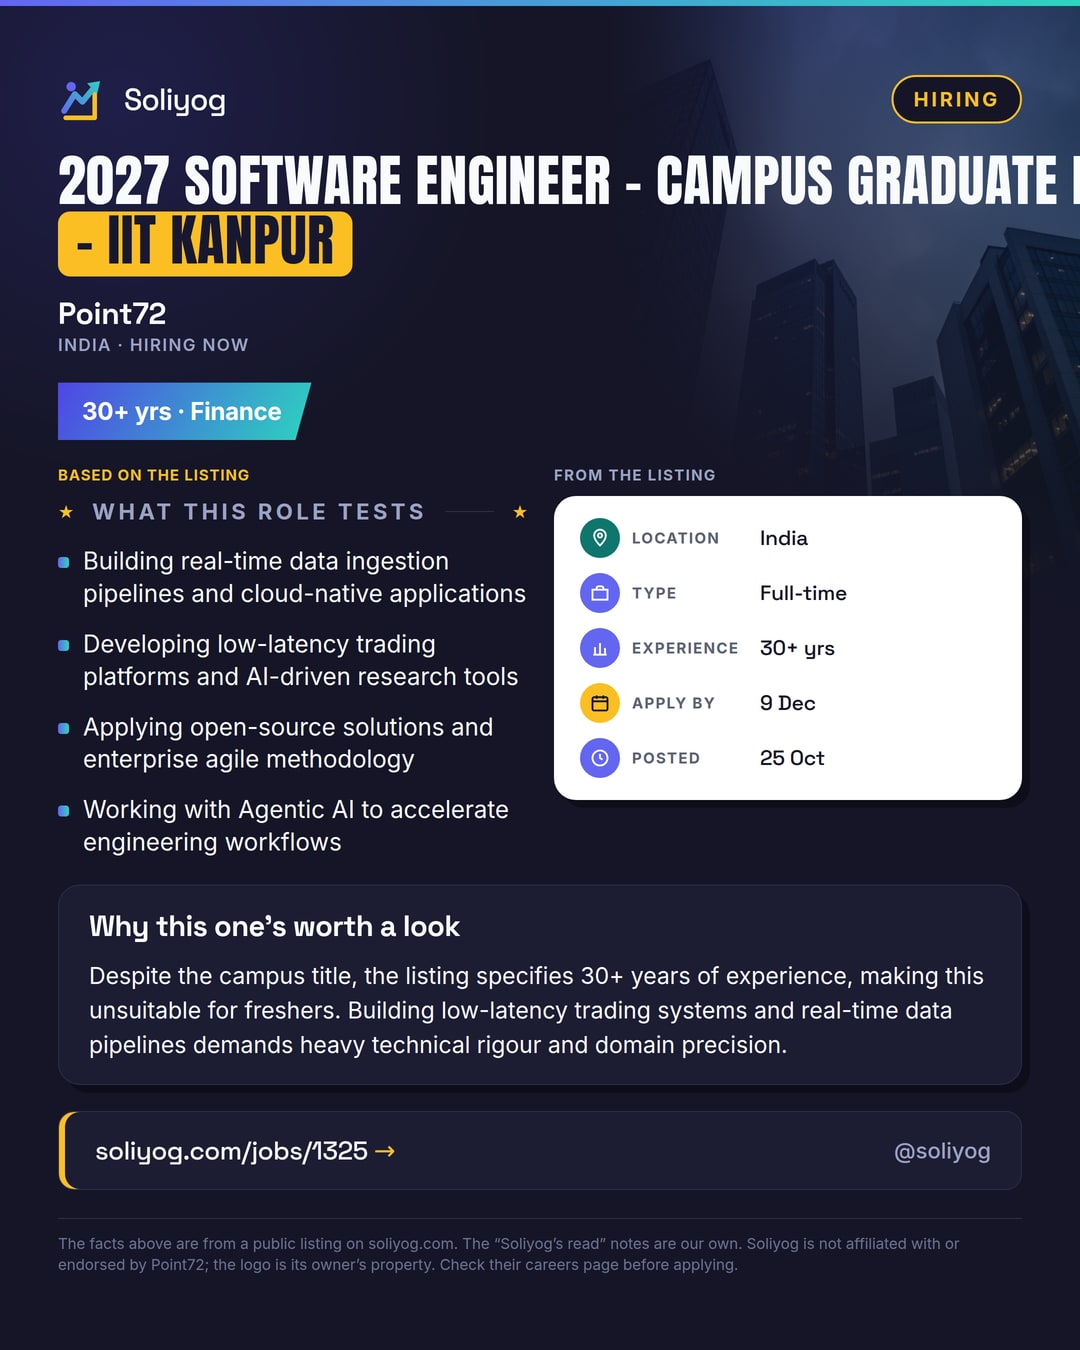
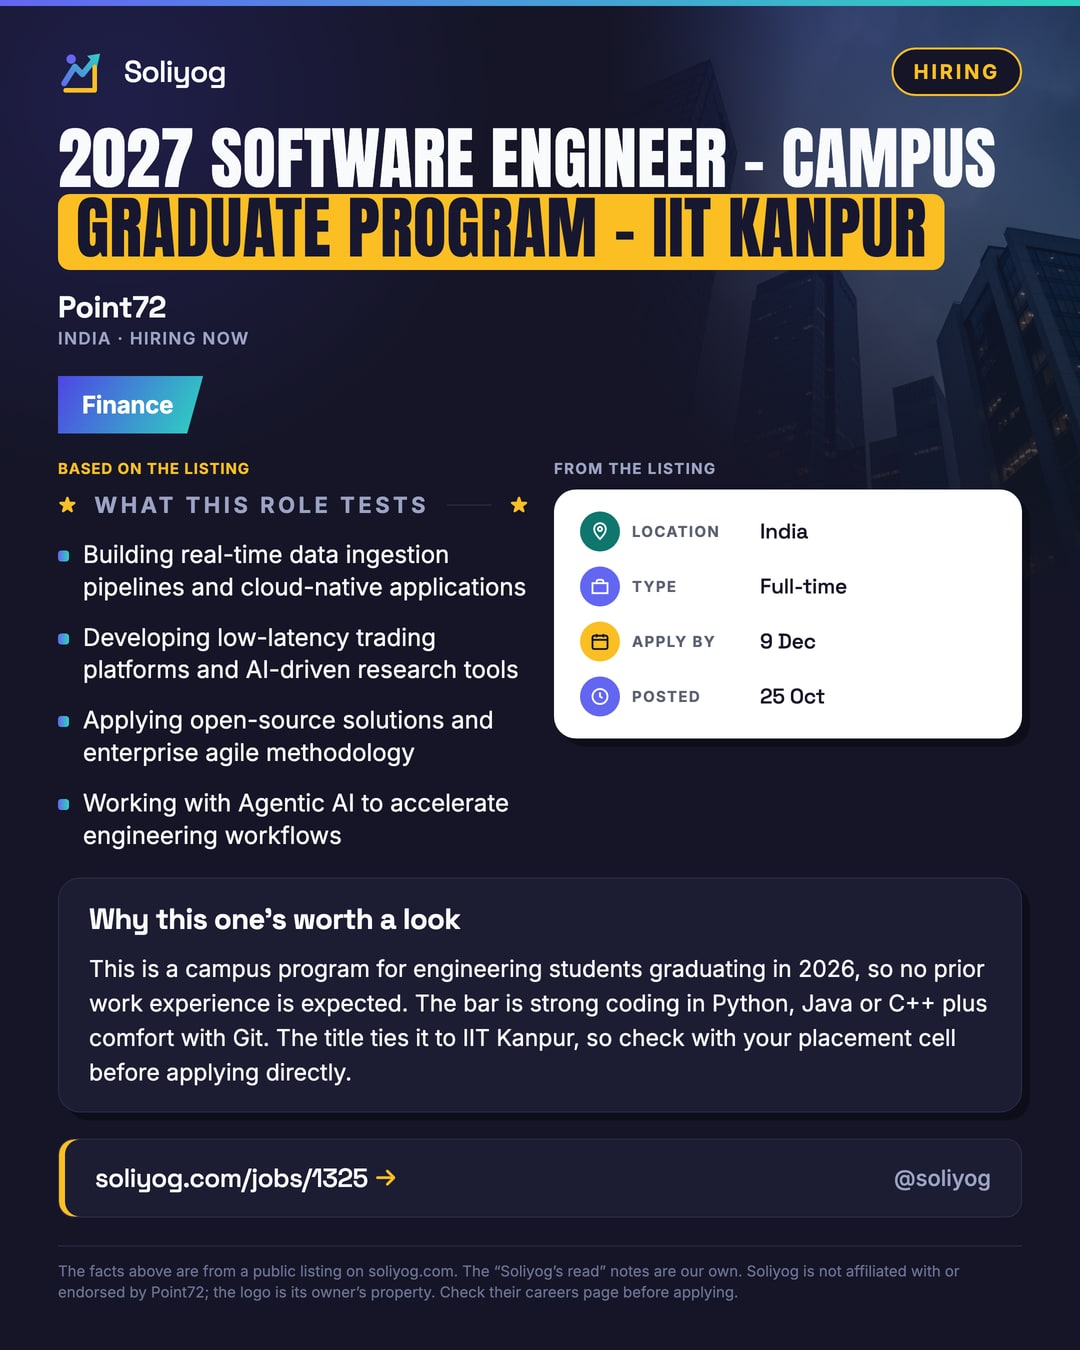
fix: long-title poster fit + experience parsed from company boilerplate
- poster: when no 1-3 word tail fits, try every split (most balanced first),
  never leaving a bare "-" at a line edge. Unblocks long titles like
  "2027 Software Engineer - Campus Graduate Program - IIT Kanpur".
- lib-job: free-text experience fallback read "30 years of investing
  experience" (Point72 blurb) as "30+ yrs". Extract experienceFromText,
  skip company-history phrasing and anything over 15 yrs. Adds tests.
- queue: IIT Kanpur draft gets a corrected soliyog_read (fresher role,
  2026 grads), rebuilt captions + poster, status held -> ready.

diff --git a/social/soliyog/templates/drive-poster-1080x1350.html b/social/soliyog/templates/drive-poster-1080x1350.html
@@ -258,7 +258,17 @@
       const w = String(d.role).trim().split(/\s+/);
       const roleEl = document.querySelector('.role');
       const hero = roleEl.parentElement;
-      const tails = w.length === 1 ? [1] : [1, 2, 3].filter((t) => t <= w.length - 1);
+      // Long titles ("2027 Software Engineer - Campus Graduate Program - IIT Kanpur") can't
+      // fit any 1-3 word tail, so fall back to every other split, most balanced first —
+      // skipping splits that leave a bare "-" / "|" at either end of a line.
+      const sep = (s) => /^[-–—|·]$/.test(s);
+      const len = (a) => a.join(' ').length;
+      const rest = [];
+      for (let t = 4; t <= w.length - 1; t++) rest.push(t);
+      rest.sort((a, b) => Math.max(len(w.slice(0, -a)), len(w.slice(-a))) - Math.max(len(w.slice(0, -b)), len(w.slice(-b))));
+      const all = w.length === 1 ? [1] : [1, 2, 3].filter((t) => t <= w.length - 1).concat(rest);
+      const clean = all.filter((t) => t === w.length || (!sep(w[w.length - t - 1]) && !sep(w[w.length - t])));
+      const tails = clean.length ? clean : all;
       const tryFit = (avail, minFs) => {
         for (const tail of tails) {
           const l1 = w.slice(0, -tail).join(' ');

diff --git a/social/soliyog/queue/2026-10-30-2027-software-engineer-campus-graduate-program-iit-kanpur.md b/social/soliyog/queue/2026-10-30-2027-software-engineer-campus-graduate-program-iit-kanpur.md
@@ -1,7 +1,7 @@
 ---
 slug: 2026-10-30-2027-software-engineer-campus-graduate-program-iit-kanpur
 date: 2026-10-30
-status: held
+status: ready
 theme: dark
 platforms: [instagram, facebook, linkedin, telegram]
 source_url: https://www.soliyog.com/jobs/1325
@@ -11,16 +11,15 @@ role_tests: |
   - Applying open-source solutions and enterprise agile methodology
   - Working with Agentic AI to accelerate engineering workflows
 soliyog_read: |
-  Despite the campus title, the listing specifies 30+ years of experience, making this unsuitable for freshers. Building low-latency trading systems and real-time data pipelines demands heavy technical rigour and domain precision.
+  This is a campus program for engineering students graduating in 2026, so no prior work experience is expected. The bar is strong coding in Python, Java or C++ plus comfort with Git. The title ties it to IIT Kanpur, so check with your placement cell before applying directly.
 caption_instagram: |
   2027 Software Engineer - Campus Graduate Program - IIT Kanpur at Point72
   
   Location: India
   Type: Full-time
-  Experience: 30+ yrs
   Apply by: 9 Dec
   
-  Soliyog's read: Despite the campus title, the listing specifies 30+ years of experience, making this unsuitable for freshers. Building low-latency trading systems and real-time data pipelines demands heavy technical rigour and domain precision.
+  Soliyog's read: This is a campus program for engineering students graduating in 2026, so no prior work experience is expected. The bar is strong coding in Python, Java or C++ plus comfort with Git. The title ties it to IIT Kanpur, so check with your placement cell before applying directly.
   
   Full listing and how to apply — link in bio.
   Not affiliated with Point72. Check their careers page before applying.
@@ -33,10 +32,9 @@ caption_facebook: |
   
   Location: India
   Type: Full-time
-  Experience: 30+ yrs
   Apply by: 9 Dec
   
-  Soliyog's read: Despite the campus title, the listing specifies 30+ years of experience, making this unsuitable for freshers. Building low-latency trading systems and real-time data pipelines demands heavy technical rigour and domain precision.
+  Soliyog's read: This is a campus program for engineering students graduating in 2026, so no prior work experience is expected. The bar is strong coding in Python, Java or C++ plus comfort with Git. The title ties it to IIT Kanpur, so check with your placement cell before applying directly.
   
   Full listing and how to apply — link in the comments.
   Not affiliated with Point72. Check their careers page before applying.
@@ -47,10 +45,9 @@ caption_linkedin: |
   
   Location: India
   Type: Full-time
-  Experience: 30+ yrs
   Apply by: 9 Dec
   
-  Soliyog's read: Despite the campus title, the listing specifies 30+ years of experience, making this unsuitable for freshers. Building low-latency trading systems and real-time data pipelines demands heavy technical rigour and domain precision.
+  Soliyog's read: This is a campus program for engineering students graduating in 2026, so no prior work experience is expected. The bar is strong coding in Python, Java or C++ plus comfort with Git. The title ties it to IIT Kanpur, so check with your placement cell before applying directly.
   
   Full listing and how to apply:
   https://www.soliyog.com/jobs/1325
@@ -64,10 +61,9 @@ caption_telegram: |
   
   Location: India
   Type: Full-time
-  Experience: 30+ yrs
   Apply by: 9 Dec
   
-  Soliyog's read: Despite the campus title, the listing specifies 30+ years of experience, making this unsuitable for freshers. Building low-latency trading systems and real-time data pipelines demands heavy technical rigour and domain precision.
+  Soliyog's read: This is a campus program for engineering students graduating in 2026, so no prior work experience is expected. The bar is strong coding in Python, Java or C++ plus comfort with Git. The title ties it to IIT Kanpur, so check with your placement cell before applying directly.
   
   Full listing and how to apply:
   https://www.soliyog.com/jobs/1325
@@ -80,7 +76,7 @@ post_ids:
 ---
 
 # 2027 Software Engineer - Campus Graduate Program - IIT Kanpur — Point72
-Portal facts (auto): India · Full-time · 30+ yrs · apply by 9 Dec
+Portal facts (auto): India · Full-time · apply by 9 Dec
 
 Fill `role_tests` + `soliyog_read` from the listing, then set `status: ready`.
 The afternoon prep job (13:00 IST) promotes it to `approved` and opens a GitHub issue
